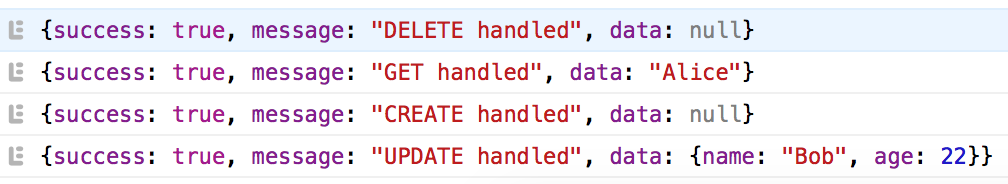
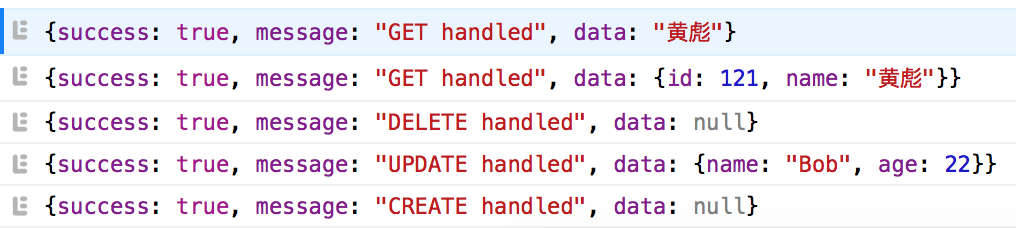
revise

diff --git a/source/_posts/fe-rest.md b/source/_posts/fe-rest.md
@@ -45,20 +45,26 @@ $.rest.get({url: '/rest', data: {name: 'Alice'}, done: function(result) {
 <body>
     <script>
         $(document).ready(function() {
-            $.rest.get({url: '/rest', data: {name: 'Alice'}, done: function(result) {
+            $.rest.get({url: '/rest', data: {name: '黄彪'}, success: function(result) {
                 console.log(result);
             }});
 
-            $.rest.create({url: '/rest', done: function(result) {
+            $.rest.create({url: '/rest', success: function(result) {
                 console.log(result);
             }});
 
-            $.rest.update({url: '/rest', data: {name: 'Bob', age: 22}, done: function(result) {
+            $.rest.update({url: '/rest', data: {name: 'Bob', age: 22}, success: function(result) {
                 console.log(result);
             }});
 
-            $.rest.delete({url: '/rest', done: function(result) {
+            $.rest.delete({url: '/rest', success: function(result) {
                 console.log(result);
+            }});
+
+            $.rest.get({url: '/rest/{id}', urlParams: {id: 121}, data: {name: '黄彪'}, success: function(result) {
+                console.log(result);
+            }, error: function(e) {
+                console.log(e);
             }});
         });
     </script>
@@ -72,93 +78,109 @@ $.rest.get({url: '/rest', data: {name: 'Alice'}, done: function(result) {
 
 ## jquery.rest.js
 ```js
-/**
- * 执行 REST 请求的 jQuery 插件:
- *      Get    请求调用 $.rest.get()
- *      Create 请求调用 $.rest.create()
- *      Update 请求调用 $.rest.update()
- *      Delete 请求调用 $.rest.delete()
- *
- * 调用例子:
- *      $.rest.get({url: '/rest', data: {name: 'Alice'}, done: function(result) {
- *          console.log(result);
- *      }}, fail: function(error) {});
- */
-$.rest = {
-    /**
-     * 使用 Ajax 的方式执行 REST 的 GET 请求(服务器响应的数据根据 REST 的规范，应该是 Json 对象).
-     * 以下几个 REST 的函数 $.restCreate(), $.restUpdate(), $.restDelete() 只是请求的 HTTP 方法和 data 处理不一样，其他的都是相同的.
-     *
-     * @param {[json]} options 有以下几个选项:
-     *        {[string]}   url   请求的 URL(必选)
-     *        {[json]}     data  请求的参数(可选)
-     *        {[function]} done  请求成功时的回调函数(可选)
-     *        {[function]} fail  请求失败时的回调函数(可选)
-     *        {[function]} alway 请求完成后的回调函数(可选)
-     * @return 没有返回值
-     */
-    get: function(options) {
-        options.httpMethod = 'GET';
-        this.execute(options);
-    },
-    create: function(options) {
-        options.httpMethod = 'POST';
-        options.data = options.data ? JSON.stringify(options.data) : {};
-        this.execute(options);
-    },
-    update: function(options) {
-        options.httpMethod = 'PUT';
-        options.data = options.data ? JSON.stringify(options.data) : {};
-        this.execute(options);
-    },
-    delete: function(options) {
-        options.httpMethod = 'DELETE';
-        options.data = options.data ? JSON.stringify(options.data) : {};
-        this.execute(options);
-    },
-    /**
-     * 执行 Ajax 请求，不推荐直接调用这个方法.
-     * 因为发送给 SpringMVC 的 Ajax 请求中必须满足下面的条件才能执行成功:
-     *     1. dataType: 'json'
-     *     2. contentType: 'application/json'
-     *     3. data: GET 时为 json 对象，POST, PUT, DELETE 时必须为 JSON.stringify(data)
-     *
-     * @param {[json]} options 有以下几个选项:
-     *        {[string]}   url        请求的 URL(必选)
-     *        {[string]}   httpMethod 请求的方式，有 GET, PUT, POST, DELETE(必选)
-     *        {[json]}     data       请求的参数(可选)
-     *        {[function]} done       请求成功时的回调函数(可选)
-     *        {[function]} fail       请求失败时的回调函数(可选)
-     *        {[function]} alway      请求完成后的回调函数(可选)
-     */
-    execute: function(options) {
-        var defaults = {
-            data: {},
-            done: function() {},
-            fail: function() {},
-            always: function() {}
-        };
+'use strict';
 
-        var settings = $.extend({}, defaults, options);
+(function($) {
+    /**
+     * 执行 REST 请求的 jQuery 插件:
+     *      Get    请求调用 $.rest.get()
+     *      Create 请求调用 $.rest.create()
+     *      Update 请求调用 $.rest.update()
+     *      Delete 请求调用 $.rest.delete()
+     *
+     * 调用例子:
+     *      $.rest.get({url: '/rest', data: {name: 'Alice'}, success: function(result) {
+     *          console.log(result);
+     *      }}, error: function(errorResponse) {});
+     */
+    $.rest = {
+        /**
+         * 使用 Ajax 的方式执行 REST 的 GET 请求(服务器响应的数据根据 REST 的规范，应该是 Json 对象).
+         * 以下几个 REST 的函数 $.restCreate(), $.restUpdate(), $.restDelete() 只是请求的 HTTP 方法和 data 处理不一样，其他的都是相同的.
+         *
+         * @param {[json]} options 有以下几个选项:
+         *        {[string]}   url       请求的 URL(必选)
+         *        {[json]}     urlParams URL 中的变量(可选)，例如 /rest/users/{id}，其中 {id} 为要被 urlParams.id 替换的部分
+         *        {[json]}     data      请求的参数(可选)
+         *        {[function]} success   请求成功时的回调函数(可选)
+         *        {[function]} error     请求失败时的回调函数(可选)
+         *        {[function]} complete  请求完成后的回调函数(可选)
+         * @return 没有返回值
+         */
+        get: function(options) {
+            options.httpMethod = 'GET';
+            this.sendRequest(options);
+        },
+        create: function(options) {
+            options.httpMethod = 'POST';
+            options.data = options.data ? JSON.stringify(options.data) : {};
+            this.sendRequest(options);
+        },
+        update: function(options) {
+            options.httpMethod = 'PUT';
+            options.data = options.data ? JSON.stringify(options.data) : {};
+            this.sendRequest(options);
+        },
+        delete: function(options) {
+            options.httpMethod = 'DELETE';
+            options.data = options.data ? JSON.stringify(options.data) : {};
+            this.sendRequest(options);
+        },
+        /**
+         * 执行 Ajax 请求，不推荐直接调用这个方法.
+         * 因为发送给 SpringMVC 的 Ajax 请求中必须满足下面的条件才能执行成功:
+         *     1. dataType: 'json'
+         *     2. contentType: 'application/json'
+         *     3. data: GET 时为 json 对象，POST, PUT, DELETE 时必须为 JSON.stringify(data)
+         *
+         * @param {[json]} options 有以下几个选项:
+         *        {[string]}   url        请求的 URL(必选)
+         *        {[string]}   httpMethod 请求的方式，有 GET, PUT, POST, DELETE(必选)
+         *        {[json]}     urlParams  URL 中的变量(可选)
+         *        {[json]}     data       请求的参数(可选)
+         *        {[function]} success    请求成功时的回调函数(可选)
+         *        {[function]} error      请求失败时的回调函数(可选)
+         *        {[function]} complete   请求完成后的回调函数(可选)
+         */
+        sendRequest: function(options) {
+            var defaults = {
+                data: {},
+                success: function() {},
+                error: function() {},
+                complete: function() {}
+            };
 
-        $.ajax({
-            url:  settings.url,
-            data: settings.data,
-            type: settings.httpMethod,
-            dataType: 'json',
-            contentType: 'application/json'
-        })
-        .done(function(result) {
-            settings.done(result);
-        })
-        .fail(function(error) {
-            settings.fail(error);
-        })
-        .always(function() {
-            settings.always();
-        });
-    }
-};
+            var settings = $.extend({}, defaults, options);
+
+            // 替换路径中的变量，例如 /rest/users/{id}, 其中 {id} 为要被 settings.urlParams.id 替换的部分
+            if (settings.urlParams) {
+                settings.url = settings.url.replace(/\{\{|\}\}|\{(\w+)\}/g, function(m, n) {
+                    if (m == '{{') { return '{'; }
+                    if (m == '}}') { return '}'; }
+                    return settings.urlParams[n];
+                });
+            }
+
+            $.ajax({
+                url:  settings.url,
+                data: settings.data,
+                type: settings.httpMethod,
+                dataType: 'json',
+                contentType: 'application/json'
+            })
+            .done(function(data, textStatus, jqXHR) {
+                settings.success(data, textStatus, jqXHR);
+            })
+            .fail(function(jqXHR, textStatus, errorThrown) {
+                // data|jqXHR, textStatus, jqXHR|errorThrown
+                settings.error(jqXHR, textStatus, errorThrown);
+            })
+            .always(function() {
+                settings.complete();
+            });
+        }
+    };
+})(jQuery);
 ```
 
 ## 服务器端代码
@@ -167,12 +189,22 @@ package com.xtuer.controller;
 
 import com.xtuer.bean.Result;
 import org.springframework.stereotype.Controller;
+import org.springframework.ui.ModelMap;
 import org.springframework.web.bind.annotation.*;
 
 import java.util.Map;
 
 @Controller
 public class RestController {
+    @GetMapping("/rest/{id}")
+    @ResponseBody
+    public Result handleGet(@PathVariable int id, @RequestParam String name, ModelMap map) {
+        map.addAttribute("id", id);
+        map.addAttribute("name", name);
+
+        return new Result(true, "GET handled", map);
+    }
+
     @GetMapping("/rest")
     @ResponseBody
     public Result handleGet(@RequestParam String name) {
